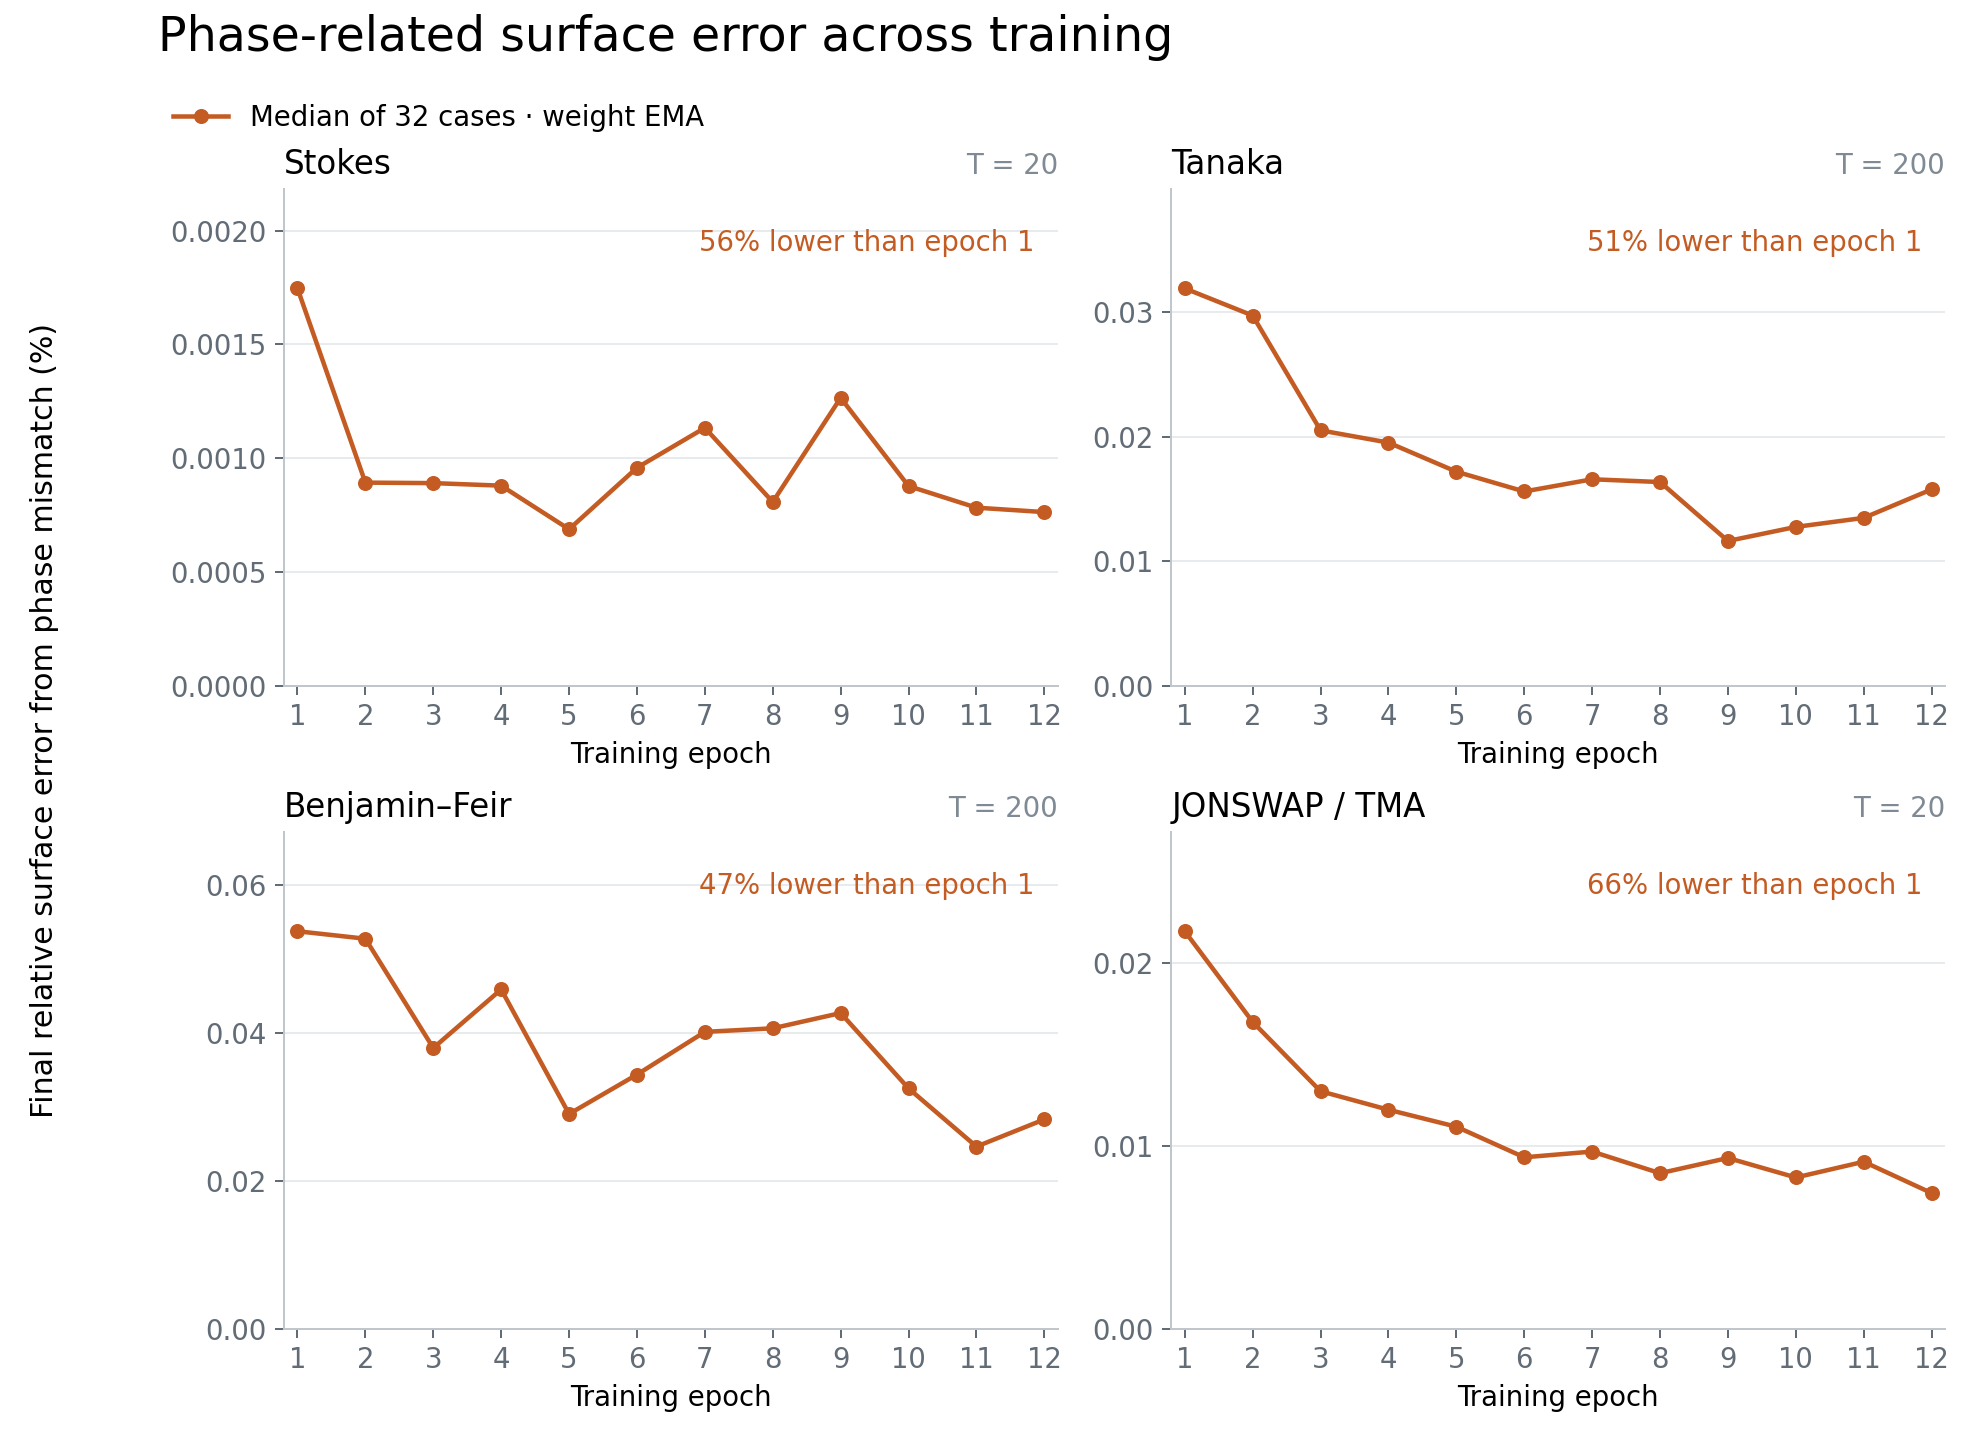
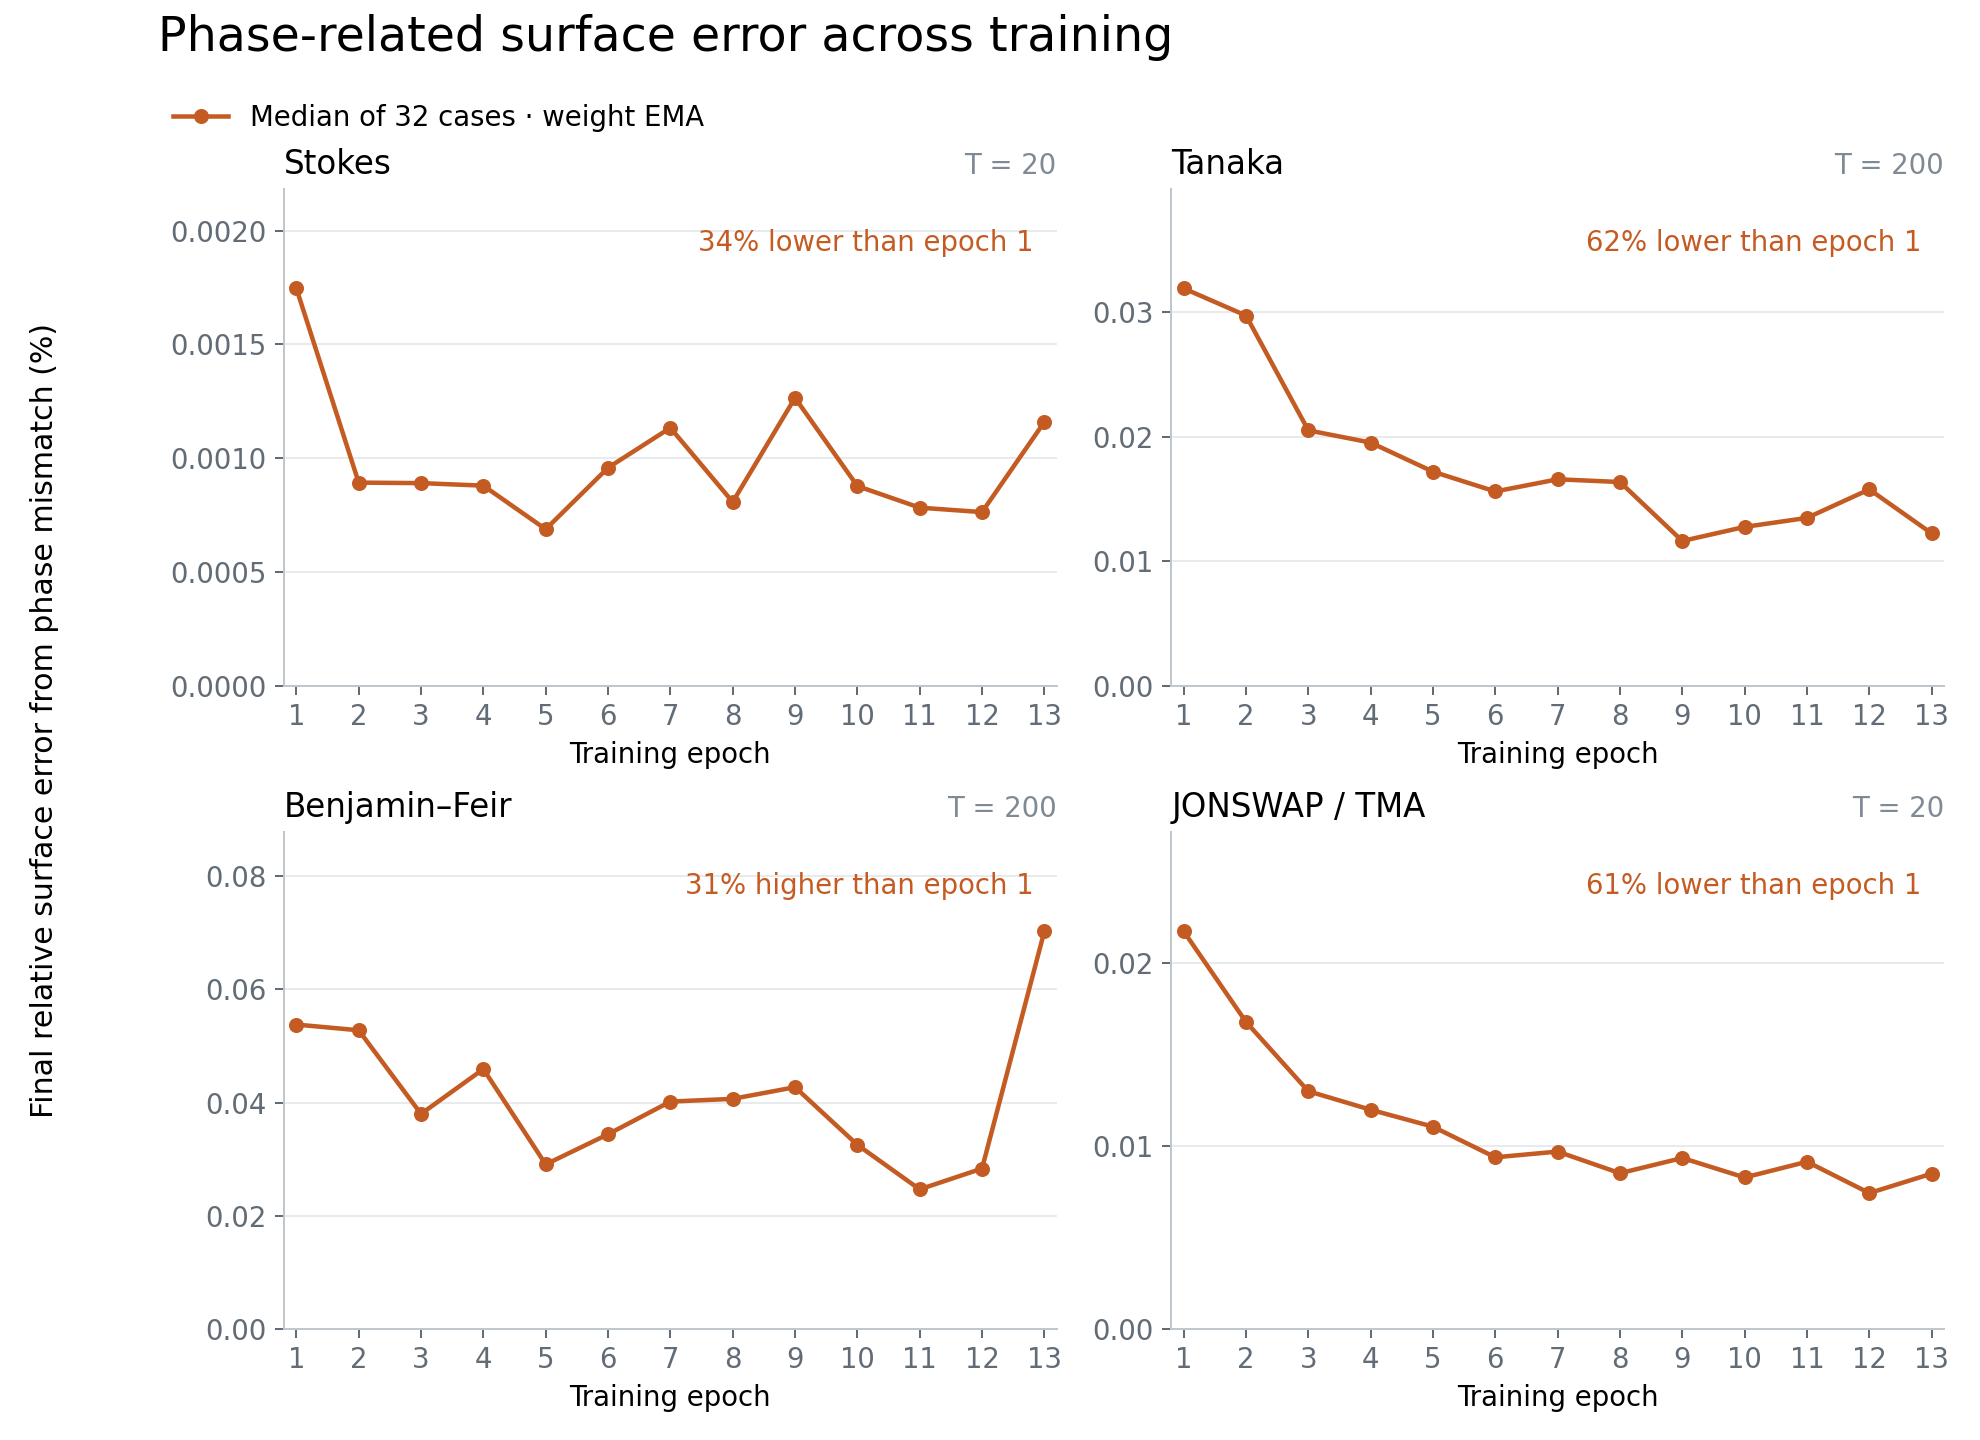
Record epoch 13 phase regression and refresh training plot

diff --git a/paper-plots/plot_phase_diagnostics.py b/paper-plots/plot_phase_diagnostics.py
@@ -75,7 +75,7 @@ def main() -> None:
         "pdf.fonttype": 42, "ps.fonttype": 42,
     })
     if args.phase_training:
-        epochs = np.arange(1, 13)
+        epochs = np.arange(1, 14)
         evaluations = [
             ROOT / "outputs/c27_phase1_lr8_momentum_half_ema995_grad05_adam05_b2099_batch16_hd04_band128_nested1_gamma32_full_20261012/eval_fast_weight_ema_nestedfused_contextbatch",
             *(ROOT / f"outputs/c27_nested_b16_ema_low_lr_continue_20261014/eval_epoch{epoch}_weight_ema" for epoch in (2, 3)),
@@ -107,7 +107,7 @@ def main() -> None:
             ax.ticklabel_format(axis="y", style="plain", useOffset=False)
             ax.locator_params(axis="y", nbins=5)
             reduction = 100 * (1 - medians[-1] / medians[0])
-            ax.text(0.97, 0.92, f"{reduction:.0f}% lower than epoch 1", transform=ax.transAxes,
+            ax.text(0.97, 0.92, f"{abs(reduction):.0f}% {'lower' if reduction >= 0 else 'higher'} than epoch 1", transform=ax.transAxes,
                     ha="right", va="top", color="#c45b22", fontsize=11)
             print(f"{family}: phase-error medians (%)={medians}; reduction={reduction:.3f}%", flush=True)
         save_figure(fig, "22-phase-error-vs-training", "Phase-related surface error across training",

diff --git a/experiments/experiments-2026-10-15.md b/experiments/experiments-2026-10-15.md
@@ -1,6 +1,6 @@
 # Experiments — 2026-10-15
 
-Epoch 12 of the approved low-LR continuation completed; epoch 13 resumed automatically. Epoch 12 improves EMA validation and recovers 9.5% in paired surface error versus epoch 11, but remains 4.2% worse than the retained epoch-10 rollout best. Figure 22 includes epochs 1–12. Figure 12 retains epoch-7 Ada accuracy and current-path single-rollout timings; Blackwell and A100 retain their previous measurements.
+Epoch 13 of the approved low-LR continuation completed; epoch 14 resumed automatically. Epoch 13 regresses 46.3% in paired surface error versus the retained epoch-10 rollout best, principally from Stokes/BF phase error. Best EMA validation remains epoch12, with patience1/5. Figure 22 includes epochs 1–13. Figure 12 retains epoch-7 Ada accuracy and current-path single-rollout timings; Blackwell and A100 retain their previous measurements.
 
 | Date | Time | File / Variant | Motivation | What Tried / Evidence | Correctness | Timing | Decision |
 | --- | --- | --- | --- | --- | --- | --- | --- |
@@ -30,3 +30,5 @@ Epoch 12 of the approved low-LR continuation completed; epoch 13 resumed automat
 | 2026-10-15 | 10:36 | Epoch 10 to 11 Stokes initial-speed diagnostic | Test whether the new Stokes tail regression can be detected from the initial DNO error, despite lower family medians and lower aggregate validation, before attributing it to unseen later states. | CPU-only saved q and eta: delta_c=-inner(pred_q-ref_q,eta_x)/norm(eta_x)^2, displacement predictor T*delta_c. Continuous terminal alignment resolves carrier-period aliases. E11/E10 absolute predictor geometric-mean ratio2.174959 (10/32 improve), measured displacement1.589260 (9 improve), raw eta1.620247 (9 improve). Predictor-magnitude changes correlate with displacement changes Pearson .994554, Spearman .972507; improvement/regression directions agree for31/32 displacement and31/32 raw-eta cases. Independent terminal carrier-phase check gives signed predictor/displacement correlation .970134 at10 and .998898 at11; fitted slopes .493873/.531722, with signed changes correlation .997274. Initial-norm-scaled predictor p95 increases .0236284% to .0607592%; carrier-phase displacement p95 .0112094% to .0323707%. E11 worst IDs3054151/2131580 raw errors rise .0153368 to .0597407% and .00577177 to .0459980%; alignment removes99.7735/97.3194% of E11 squared error. | Same32 saved EMA cases; no model, solver, GPU or training execution. Alignment sign verified against periodic Fourier shifts and independently against minus carrier phase difference divided by carrier wavenumber. The factor-near-one-half fitted gain means the initial kinematic speed estimate is not quantitatively identical to long-time speed drift. Associations are selected-case diagnostics, not causal or independent validation. Earlier E3–7 aggregate predictor rankings were weak, so this single successful transition does not validate a replacement checkpoint score. | CPU diagnostic10:32–10:36; launcher95505 confirmed live on epoch12, about11% complete. | KEEP approved training and rollout evaluation unchanged. This regression already has a strong initial translation-direction signal, supporting targeted speed diagnostics rather than assuming all deterioration originates off-trajectory. Retain epoch10 as aggregate best. |
 | 2026-10-15 | 11:26 | Per-epoch continuation RNG and loss-ramp audit | Rule out process restarts accidentally repeating data order or training probes, which would confound transfer from the one-epoch recipe to longer training. | Read-only source audit: EMA script1507–1508/1610 creates epoch-indexed SeedSequence children; util.py237–239 shuffles a copy of fixed indices. A NumPy-only check reproduces uninterrupted epoch12 order after recreating the process seed, differs from11, and confirms identical seed prefixes for epoch budgets1/3/60. HD folds device ID and restored global update into the fixed base key (1342–1346). Teacher uses newly shuffled batch rows; activation/cadence and weight ramp use global step (1169–1175,1283–1287), as do MB/phase/HD ramps. Validation probes intentionally remain fixed. | Main and independent source review agree. No model execution or GPU work; NumPy check uses4096 synthetic row positions. This verifies randomness/schedule construction, not bitwise GPU training equivalence. Full optimizer/EMA restoration was separately audited at11. | CPU/source audit11:22–11:26; launcher95505 verified live on epoch12,51% complete. | No reset bug found and no code change needed. KEEP approved continuation; process/JIT/prefetch startup is overhead, not a changed randomization or loss-schedule recipe. |
 | 2026-10-15 | 12:35 | Epoch 12 primary-EMA evaluation; Figure 22 through epoch 12 | Check whether continued low-LR training recovers the epoch-11 phase regression and improves on the retained epoch-10 rollout best. | EMA selection1.504117933e-5 improves3.074% versus11; retained-band data1.320045847e-5 improves3.179%, HD4.907%. Stokes retained-data contribution recovers15.839%, but BF worsens6.614%. All128 rollouts completed. Terminal eta medians/p95 percent S/T/BF/J: .000850128/.017396156, .0177273/.263234, .0320744/.121337, .00978605/.0825871. Pooled paired eta/xi ratios12/1=.526696/.525735,12/10=1.042066/1.045160,12/11=.905053/.902407,versusM2=.246201/.271233,versusM3=1.037481/1.055611; eta wins99/70/77/97/70 respectively. Family eta12/10=1.046442/1.066626/1.146499/.921469. Whole-trajectory eta12/1=.524371,12/10=1.050122,12/11=.913063. Terminal phase12/10 pooled1.030085 and12/1=.553532; Stokes phase12/11=.626939, recovering its previous regression. Figure22 includes all12 epochs; phase medians percent .000763433/.015768996/.028326383/.007412554, reductions56.3/50.6/47.3/65.9% versus1, with Tanaka/BF worsening versus11. Tracked Tanaka3687197/3686647 eta rises to1.50638/.301736%. | Same ordered128 IDs/times/depths, all truth valid and eta/xi/q finite, minimum fluid depth.011970299154. Independent terminal norms agree within2.37e-13; main independently reproduces pooled eta ratios and verifies phase identity using sine of half-angle differences. Latest/best-validation/primaryEMA all12; all audited counters8847540,52 EMA arrays/40384 scalars identical across full states and export. Both EMAs/LR/activation unchanged, patience0/5. Figure rendered and visually checked; compile/diff checks pass. | Training02:04; validation/export12:29; rollouts complete and epoch13 resumed12:32; CPU audits/figure refresh12:32–12:35. | KEEP epoch10 as aggregate rollout best;12 recovers from11 but is4.2% worse than10 despite70/128 case wins. Approved epoch13 continues unchanged. MERGE Figure22/log refresh; no new training arm, timing measurement, raw rollout or cloud work. Sustained60–120-epoch transfer remains unproven. |
+| 2026-10-15 | 14:50 | Epoch 13 primary-EMA evaluation and phase decomposition | Determine whether continued low-LR training improves on epoch10 and whether the latest regression is phase-related or profile-amplitude error. | All128 EMA rollouts complete. Selection1.512357016e-5 rises.548% vs12; Stokes retained-data contribution rises33.68%, while BF falls2.25%. Terminal eta medians/p95 percent S/T/BF/J: .001159985/.012661571, .016787945/.371332031, .074749103/.163806536, .010821768/.077548592. Pooled paired eta/xi ratios13/1=.739455/.744748,13/10=1.463010/1.480558,13/12=1.403951/1.416584; eta wins79/49/40 of128. Eta ratios againstM2/M3=.345653/1.456572, wins90/59. Family eta13/10=2.136035/.991407/2.387411/.906153; S/BF paired errors now exceed epoch1 despite pooled improvement. Whole-trajectory eta13/10=1.487522; all32 BF trajectory errors worsen. Pooled Fourier-phase13/10=1.500977 versus amplitude1.068700. Stokes phase2.148152 versus amplitude1.006266; BF phase2.519225 versus amplitude1.449135. Phase medians percent .001159194/.012240326/.070271067/.008473390. Tracked Tanaka3687197/3686647 eta1.374509/.683478%. Figure22 extends through13, preserving all regressions and explicitly labeling BF31% higher than epoch1. | Same ordered128 IDs/times/depths, valid finite references/predictions, minimum fluid depth.011970302415; independently reconstructed terminal norms agree within2.17e-13. Main independently reproduces paired eta and checks phase plus amplitude squared equals total squared error using sine-half-angle identity. Latest/EMA export13 counters9584835; all52 EMA arrays match latest full-state shadow. Figure22 medians independently verified and PNG visually checked; compile/diff checks pass. Best validation remains12, patience1/5. LR8e-6, gradEMA.5 and weightEMA.995 unchanged. | Training02:06; validation/export14:42; rollouts complete and epoch14 resumed14:46; CPU audits14:47–14:50. | MERGE Figure22/log refresh; KEEP retained epoch10 as aggregate rollout best; do not promote13. Approved continuation remains unchanged. Regression is primarily phase-related on S/BF and persists across the trajectory; sustained60–120-epoch transfer is not established. No raw rollouts, new training arm, cloud work or timing run. |
+| 2026-10-15 | 14:51 | Epoch13 initial-state phase-bias audit, Stokes and Benjamin–Feir | Determine whether the regression requires later off-reference states or is already visible in phase-driving errors at a shared reference initial state. | CPU-only saved E10/E12/E13 arrays. Stokes13/10 paired GM: retained-band initial q error1.216, absolute speed bias3.458437 (28/32 worsen), terminal displacement2.200, ordinary eta2.136, translation-aligned eta1.003. Against12: bias2.203380, ordinary eta2.041, aligned.965. Signed initial speed-bias changes correlate with displacement-change/T at.998214/.998467 against10/12; alignment removes median99.45% of E13 squared error. BF13/10 initial q error1.142, angular q-error component1.509, radial.913, absolute carrier angular-rate bias3.179, terminal carrier phase3.778. Signed carrier-rate changes versus terminal carrier-phase-change/T correlate.7549 (vs10),.8561 (vs12). BF terminal phase share rises89.29% to96.24%; amplitude error also rises. | Same32 IDs/family and identical initial eta/xi across checkpoints/reference. Stokes speed bias is negative inner product of q error with eta_x divided by slope energy; main independently reproduces3.458437/2.203380. BF radial/angular projections use Re/Im(D*conj(E))/abs(E), E=initial reference eta spectrum,D=q-error spectrum; mode<=128, excludeDC and energy<=1e-12 of maximum, normalize squared projected sums by eta energy. Carrier is strongest reference mode, not prediction-selected or a tiny coefficient. Terminal phase uses exact magnitude/angle decomposition. Association does not causally separate initial bias from later nonlinear evolution. | CPU diagnostics14:48–14:51; no model forward, solver run, GPU workload, or new data artifact. | Initial on-reference phase bias is a concrete diagnostic lead for longer training: regression is not solely distribution shift. Retain epoch10 and approved settings; do not add a family-specific penalty or change checkpoint selection based on these same evaluation cases. |

diff --git a/paper-plots/README.md b/paper-plots/README.md
@@ -757,15 +757,15 @@ OPENBLAS_NUM_THREADS=1 OMP_NUM_THREADS=1 UV_CACHE_DIR=/tmp/dno-uv-cache \
 [PNG](figures/22-phase-error-vs-training.png) / [PDF](figures/22-phase-error-vs-training.pdf)
 
 Terminal Fourier-phase error for primary weight-EMA checkpoints at every epoch
-from 1 through 12, using the same 32 cases per family. The y axis uses Figure 20's
+from 1 through 13, using the same 32 cases per family. The y axis uses Figure 20's
 relative-error magnitude, not the percentage of total squared error. Each point
 is the median of `100*sqrt(phase_energy/reference_energy)` at the final rollout
-time. The plotted epoch-12 reductions versus epoch 1 are 56.3%, 50.6%, 47.3% and
-65.9% for Stokes, Tanaka, Benjamin–Feir and JONSWAP/TMA. All twelve measurements
-are shown; the curves are not monotonic. From epoch 11 to 12, Stokes and JONSWAP
-medians decrease by 2.5% and 18.8%, while Tanaka and BF increase by 17.0% and
-14.9%. Epoch-12 median errors are 0.000763433%, 0.0157690%, 0.0283264% and
-0.00741255%, respectively, in the family order above.
+time. At epoch 13, Stokes, Tanaka and JONSWAP/TMA are 33.6%, 61.6% and 61.0%
+lower than epoch 1, while Benjamin–Feir is 30.7% higher. All thirteen measurements
+are shown; the curves are not monotonic. From epoch 12 to 13, Tanaka decreases
+by 22.4%, while Stokes, BF and JONSWAP increase by 51.8%, 148.1% and 14.3%.
+Epoch-13 median errors are 0.00115919%, 0.0122403%, 0.0702711% and 0.00847339%
+for Stokes, Tanaka, Benjamin–Feir and JONSWAP/TMA, respectively.
 
 ```sh
 OPENBLAS_NUM_THREADS=1 OMP_NUM_THREADS=1 UV_CACHE_DIR=/tmp/dno-uv-cache \

diff --git a/EXPERIMENTS.md b/EXPERIMENTS.md
@@ -33,11 +33,11 @@ could not be recovered at all are in
 
 ## Dated logs
 
-97 files, 1604 rows.
+97 files, 1606 rows.
 
 | Date | Rows | File | Size |
 | --- | --- | --- | --- |
-| 2026-10-15 | 26 | [`experiments/experiments-2026-10-15.md`](experiments/experiments-2026-10-15.md) | 43 KB |
+| 2026-10-15 | 28 | [`experiments/experiments-2026-10-15.md`](experiments/experiments-2026-10-15.md) | 47 KB |
 | 2026-10-14 | 16 | [`experiments/experiments-2026-10-14.md`](experiments/experiments-2026-10-14.md) | 38 KB |
 | 2026-10-13 | 8 | [`experiments/experiments-2026-10-13.md`](experiments/experiments-2026-10-13.md) | 14 KB |
 | 2026-10-12 | 57 | [`experiments/experiments-2026-10-12.md`](experiments/experiments-2026-10-12.md) | 125 KB |
